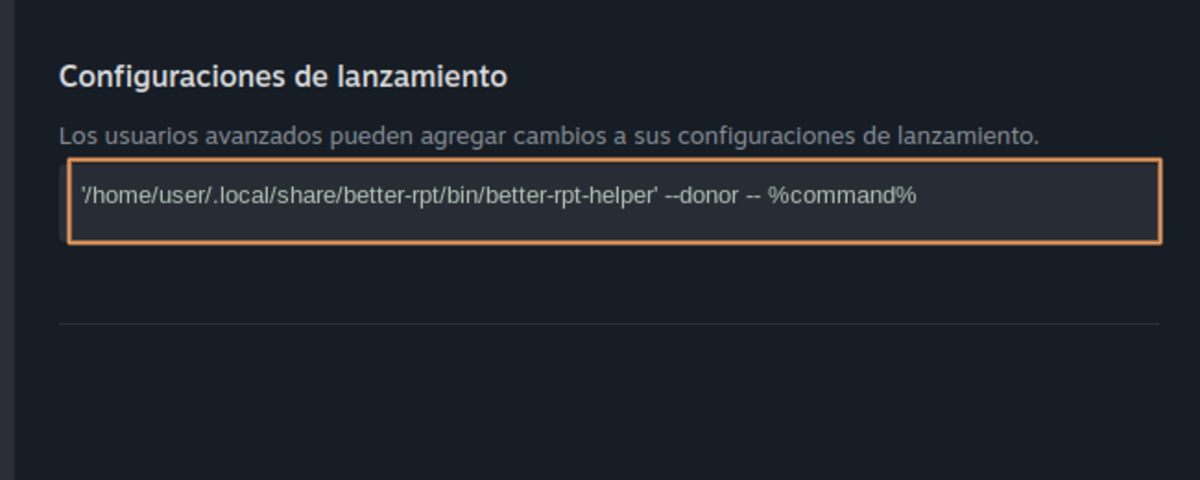
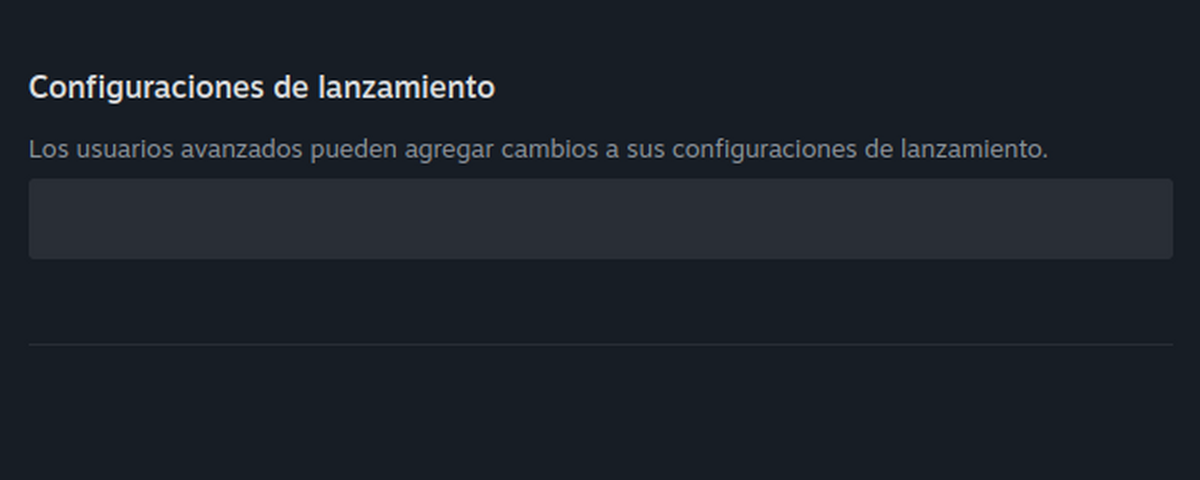
fix(ui): ajusta las capturas de la guía a 2.5:1

Changed region(s): [[0.0308, 0.25, 0.9867, 0.5312], [0.0, 0.125, 0.4317, 0.2188]]

diff --git a/frontend/src/components/SessionPanel.tsx b/frontend/src/components/SessionPanel.tsx
@@ -68,6 +68,8 @@ const GUIDE_STEPS: Array<{
   {
     title: "guide.step1.title",
     body: "guide.step1.body",
+    image: "/guide/library-properties.png",
+    alt: "guide.image.library",
   },
   {
     title: "guide.step2.title",
@@ -126,7 +128,6 @@ export function SessionPanel({
   const showEnded =
     (state?.phase === "ended" || state?.phase === "error") &&
     (!selected || selected.appId === state?.targetAppId);
-  const setupStatus = session.setup?.status;
 
   return (
     <aside className="session-pane" aria-label={t("session.section")}>
@@ -787,25 +788,25 @@ function GuidePanel({ lang, session }: { lang: Language; session: SessionControl
 
   return (
     <div className="session-body">
-      <div>
+      <div className="guide-intro">
         <h2 className="section-title">{t("guide.title")}</h2>
         <p className="hint">{t("guide.intro")}</p>
       </div>
 
-      <div className="guide-status">
-        <p className="hint">{t(setupMessageKey(status))}</p>
-        <Button
-          variant="ghost"
-          className="refresh-button"
-          onClick={() => void session.refreshSetup()}
-          disabled={session.busy}
-        >
-          {t("action.refreshSetup")}
-        </Button>
-      </div>
+      <p className="hint">{t(setupMessageKey(status))}</p>
 
-      <div>
-        <h3 className="section-title">{t("guide.command")}</h3>
+      <div className="guide-command-block">
+        <div className="guide-command-head">
+          <h3 className="section-title">{t("guide.command")}</h3>
+          <Button
+            variant="ghost"
+            className="refresh-button"
+            onClick={() => void session.refreshSetup()}
+            disabled={session.busy}
+          >
+            {t("action.refreshSetup")}
+          </Button>
+        </div>
         <pre className="guide-command">{command || "…"}</pre>
         <p className="hint">{t("guide.commandHint")}</p>
         <Button

diff --git a/frontend/src/styles.css b/frontend/src/styles.css
@@ -1190,19 +1190,29 @@ button {
   flex-wrap: wrap;
 }
 
-.guide-status {
+.guide-intro {
   display: flex;
-  align-items: flex-start;
+  flex-direction: column;
+  gap: 6px;
+}
+
+.guide-command-block {
+  display: flex;
+  flex-direction: column;
+  gap: 10px;
+}
+
+.guide-command-head {
+  display: flex;
+  align-items: center;
   justify-content: space-between;
-  gap: 12px;
+  gap: 16px;
+  flex-wrap: wrap;
 }
 
-.guide-status .hint {
-  margin: 0;
-}
-
-.guide-status .refresh-button {
+.guide-command-head .refresh-button {
   flex: 0 0 auto;
+  margin-left: auto;
 }
 
 .guide-actions {
@@ -1265,17 +1275,18 @@ button {
 }
 
 .guide-step h4 {
-  margin-bottom: 4px;
+  margin-bottom: 6px;
 }
 
 .guide-image {
   display: block;
   width: 100%;
-  height: 160px;
-  margin-top: 8px;
+  height: auto;
+  aspect-ratio: 5 / 2;
+  margin-top: 10px;
   border: 1px solid var(--color-line-soft);
-  object-fit: cover;
-  object-position: top;
+  object-fit: contain;
+  background: var(--color-ink);
 }
 
 .guide-restore {
@@ -1297,12 +1308,6 @@ button {
   flex-direction: column;
   gap: 8px;
   padding-top: 10px;
-}
-
-@media (max-width: 1100px) {
-  .guide-image {
-    height: 120px;
-  }
 }
 
 @media (max-height: 700px) {

diff --git a/frontend/e2e/visual.spec.ts b/frontend/e2e/visual.spec.ts
@@ -131,4 +131,22 @@ test.describe("visual parity", () => {
       await expect(page).toHaveScreenshot(`visual/diagnostics-${size.name}.png`);
     });
   }
+
+  for (const size of [
+    { width: 1280, height: 800, name: "1280x800" },
+    { width: 1024, height: 600, name: "1024x600" },
+  ]) {
+    test(`guide at ${size.name}`, async ({ page }) => {
+      await page.setViewportSize({ width: size.width, height: size.height });
+      await prepare(page, "details", "es");
+      await page.getByRole("tab", { name: "Guía" }).click();
+      await expect(page.getByRole("heading", { name: "Comando para SpaceWar" })).toBeVisible();
+      await expect(page.locator(".guide-command-block .guide-command")).toHaveText(
+        "better-rpt-helper --donor -- %command%",
+      );
+      await page.evaluate(() => (document.activeElement as HTMLElement | null)?.blur());
+      await page.waitForTimeout(100);
+      await expect(page).toHaveScreenshot(`visual/guide-${size.name}.png`);
+    });
+  }
 });

diff --git a/frontend/e2e/parity.spec.ts b/frontend/e2e/parity.spec.ts
@@ -37,6 +37,21 @@ test.describe("parity states", () => {
     await expect(page.getByText("better-rpt-helper --donor -- %command%")).toBeVisible();
   });
 
+  test("guide images keep their 2.5:1 aspect ratio", async ({ page }) => {
+    await open(page, "details");
+    await page.getByRole("tab", { name: "Guía" }).click();
+    const images = page.locator(".guide-image");
+    await expect(images).toHaveCount(5);
+
+    for (let index = 0; index < 5; index += 1) {
+      const box = await images.nth(index).boundingBox();
+      expect(box).not.toBeNull();
+      const ratio = box!.width / box!.height;
+      expect(ratio).toBeGreaterThan(2.45);
+      expect(ratio).toBeLessThan(2.55);
+    }
+  });
+
   test("empty and error states", async ({ page }) => {
     await open(page, "empty");
     await expect(page.getByText("No hay juegos instalados.")).toBeVisible();

diff --git a/docs/guide-images.md b/docs/guide-images.md
@@ -1,44 +1,43 @@
 # Imágenes de la guía
 
-La guía de la interfaz usa cuatro imágenes:
+La guía usa cinco capturas reales de Steam proporcionadas por el usuario,
+tomadas el 20/10/2026 (Steam build 1791918634) en la interfaz española:
 
 | Recurso | Contenido | Estado |
 |---|---|---|
-| `frontend/public/guide/launch-options.png` | Steam → SpaceWar → Propiedades → Opciones de lanzamiento | Captura real (20/10/2026, Steam build 1791918634) |
-| `frontend/public/guide/command.png` | Comando pegado en el campo de opciones | Captura real (20/10/2026, Steam build 1791918634) |
-| `frontend/public/guide/popup.png` | Popup «Allow game launch?» / «¿Permitir iniciar el juego?» | Placeholder / pendiente de captura real |
-| `frontend/public/guide/invite.png` | Overlay Shift+Tab → Remote Play Together | Placeholder / pendiente de captura real |
+| `frontend/public/guide/library-properties.png` | Biblioteca → clic derecho en SpaceWar → Propiedades | Captura real |
+| `frontend/public/guide/launch-options.png` | Propiedades → General → Opciones de lanzamiento, campo vacío | Captura real |
+| `frontend/public/guide/command.png` | El mismo campo con el comando pegado | Captura real |
+| `frontend/public/guide/popup.png` | Aviso «Iniciar el juego con argumentos personalizados» | Captura real |
+| `frontend/public/guide/invite.png` | Overlay → menú de SpaceWar → Invitar a Remote Play | Captura real |
 
-Las dos capturas reales son recortes 1200×480 del diálogo de
-Propiedades, pensados para el contenedor de 160 px de alto de la guía. La ruta
-personal del comando se sustituyó por `/home/user` para no publicar el nombre
-de la cuenta; la app muestra la ruta real en el bloque de comando.
+Todas están recortadas a 1200×480 (proporción 2.5:1) y se muestran a todo el
+ancho de la guía, sin recortes: la altura se deriva del ancho. La captura del
+overlay está recortada al menú contextual para no incluir perfiles de terceros.
+No se ocultaron la cuenta, la ruta ni el token en las capturas donde aparecen;
+son datos del propio usuario y no se consideran sensibles para esta guía local.
 
 ## Regla
 
 No se inventan capturas ni se presentan diagramas como capturas reales. Las
-imágenes de `popup.png` e `invite.png` siguen siendo **ilustraciones
-placeholder** generadas localmente y etiquetadas como tales en este documento.
-Deben sustituirse por capturas reales antes de publicar una guía definitiva.
+cinco imágenes son capturas de Steam. Si se sustituyen, mantener el recorte
+2.5:1 y ocultar únicamente datos de terceros.
 
 ## Procedimiento de sustitución
 
-1. Cerrar cualquier partida en curso.
-2. Abrir Steam y la ventana de propiedades de SpaceWar.
-3. Capturar con la herramienta de captura del escritorio, recortando la zona
-   relevante a 1200×480 (proporción 2.5:1).
-4. Ocultar nombres de usuario, rutas personales y datos de la cuenta.
+1. Abrir Steam y la ventana o el menú que se quiera capturar.
+2. Capturar con la herramienta del escritorio.
+3. Recortar a 1200×480, centrando el diálogo o la sección relevante.
+4. No incluir perfiles de terceros en la captura del overlay.
 5. Guardar como PNG en la ruta correspondiente.
 6. Verificar que la imagen se vea en ES/EN y en 1024/1280 px.
 7. Actualizar esta tabla con la fecha y la versión de Steam.
 
-## Verificación pendiente
+## Verificación
 
-- [x] Captura real de Opciones de lanzamiento.
-- [x] Captura real del comando pegado.
-- [ ] Captura real del popup de confirmación. Steam ya no lo muestra en esta
-  cuenta (`LaunchOptionTipsShown` está agotado); hace falta otra cuenta o
-  restablecer el aviso.
-- [ ] Captura real del overlay/invitación. Requiere una partida en ejecución
-  con el overlay de Steam disponible.
-- [ ] Revisión visual ES/EN.
+- [x] Captura de Biblioteca → Propiedades.
+- [x] Captura de Opciones de lanzamiento vacías.
+- [x] Captura del comando pegado.
+- [x] Captura del aviso de confirmación de Steam.
+- [x] Captura del menú Invitar a Remote Play, sin perfiles de terceros.
+- [ ] Variante en inglés; las capturas actuales están en español.

diff --git a/docs/ux.md b/docs/ux.md
@@ -128,9 +128,11 @@ La guía es el flujo principal y debe poder consultarse con Steam abierto:
   **Integración de SpaceWar** + estado), visible también fuera de la guía.
   Sustituye al aviso de compatibilidad y no usa una tarjeta de aviso para el
   estado normal «no instalada».
-- Dentro de la guía, una fila de estado en la parte superior muestra el mensaje
-  correspondiente y **Verificar de nuevo**, siempre disponible. Al terminar
-  muestra un toast **Estado actualizado**; no hay confirmación inline.
+- Dentro de la guía, el mensaje de estado aparece como una línea de texto sobre
+  el comando y **Verificar de nuevo** comparte fila con **Comando para
+  SpaceWar**, alineado a la derecha y disponible salvo mientras se comprueba.
+  Al terminar muestra un toast **Estado actualizado**; no hay confirmación
+  inline.
 - Si SpaceWar ya contiene el dispatcher pero no existe `setup.json`, la guía lo
   reconoce como **instalado** y explica que el lanzamiento funciona pero
   **Restaurar** no está disponible porque no hay copia del valor original.
@@ -156,11 +158,13 @@ La guía es el flujo principal y debe poder consultarse con Steam abierto:
   5. Aceptar el popup de Steam («Allow game launch?» / «¿Permitir iniciar el
      juego?»).
   6. Abrir el overlay (Shift+Tab) e invitar a Remote Play Together.
-- Imágenes inline, justo después del paso que explican: opciones de
-  lanzamiento tras el paso 2, comando pegado tras el 3, popup tras el 5 e
-  invitación tras el 6. Se muestran a 160 px de alto para no alargar la guía.
-  Las capturas de opciones y comando son reales; popup e invitación siguen
-  pendientes y se documentan en `docs/guide-images.md`.
+- Imágenes inline, justo después del paso que explican: biblioteca tras el
+  paso 1, opciones de lanzamiento tras el 2, comando pegado tras el 3, popup
+  tras el 5 e invitación tras el 6. Se muestran a todo el ancho de la guía con
+  su proporción 2.5:1 (unos 136-270 px de alto según el viewport), sin
+  recortes. Las cinco son capturas reales; la de invitación se recorta al menú
+  para no mostrar perfiles de terceros. Se documentan en
+  `docs/guide-images.md`.
 - **Restauración manual** es un bloque plegable al final, después de los pasos,
   y solo aparece si hay backup. Contiene el valor original de `LaunchOptions` y
   cómo restaurarlo; no interrumpe el flujo de la guía.

diff --git a/.commit/conventions.md b/.commit/conventions.md
@@ -20,6 +20,8 @@
   consulta.
 - `.feedback/` guarda contratos y capturas de las iteraciones visuales; está
   ignorado y no se versiona.
+- Las capturas de `frontend/public/guide/` son 1200×480 (2.5:1) y se muestran a
+  ancho completo con `aspect-ratio: 5 / 2`; no volver a fijar una altura.
 - Los fixtures de `testdata/steam/` son entradas de prueba versionadas; los
   scripts de `testdata/steam/` los materializan en directorios temporales.
 - De `.codegraph/` solo se versiona su `.gitignore`; el índice (`codegraph.db`)

diff --git a/CHANGELOG.md b/CHANGELOG.md
@@ -41,6 +41,9 @@ el proyecto usa [Versionado Semántico](https://semver.org/lang/es/).
 - El resumen de la última sesión muestra “Resultado: Terminada” en lugar de
   repetir “Terminada Terminada”, y el panel de preparación cabe completo en
   ventanas de 1024×600.
+- Las capturas de la guía respetan su proporción 2.5:1 y se muestran completas a
+  1024, 1280 y 1920 px; el paso 1 se recorta al menú de SpaceWar para que
+  **Propiedades** se lea.
 
 ### Removed
 
